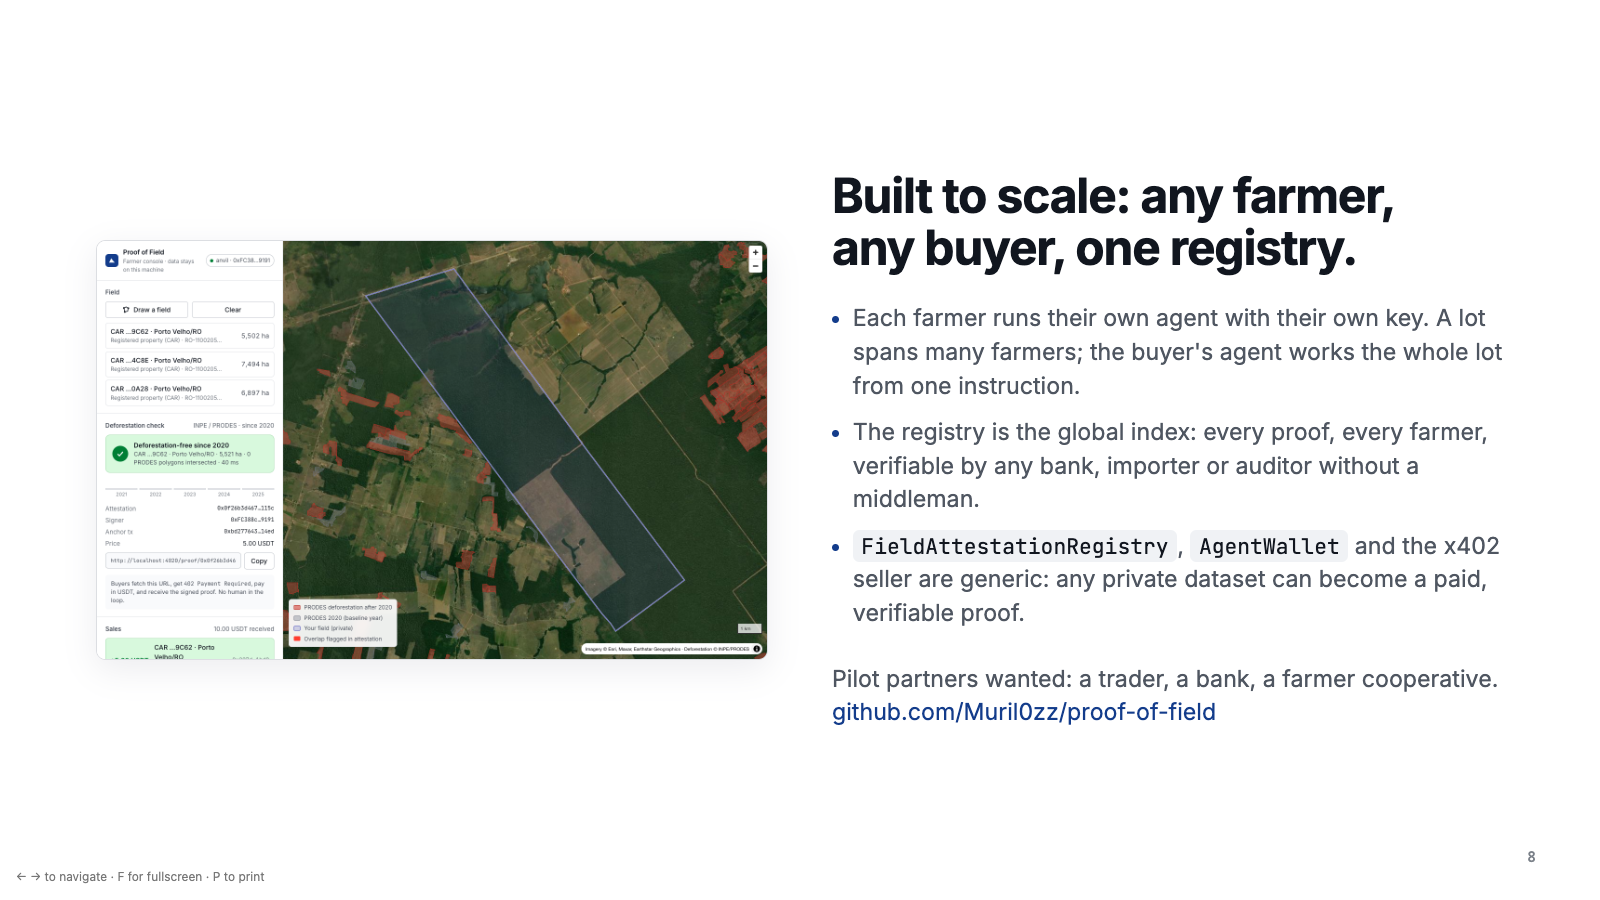
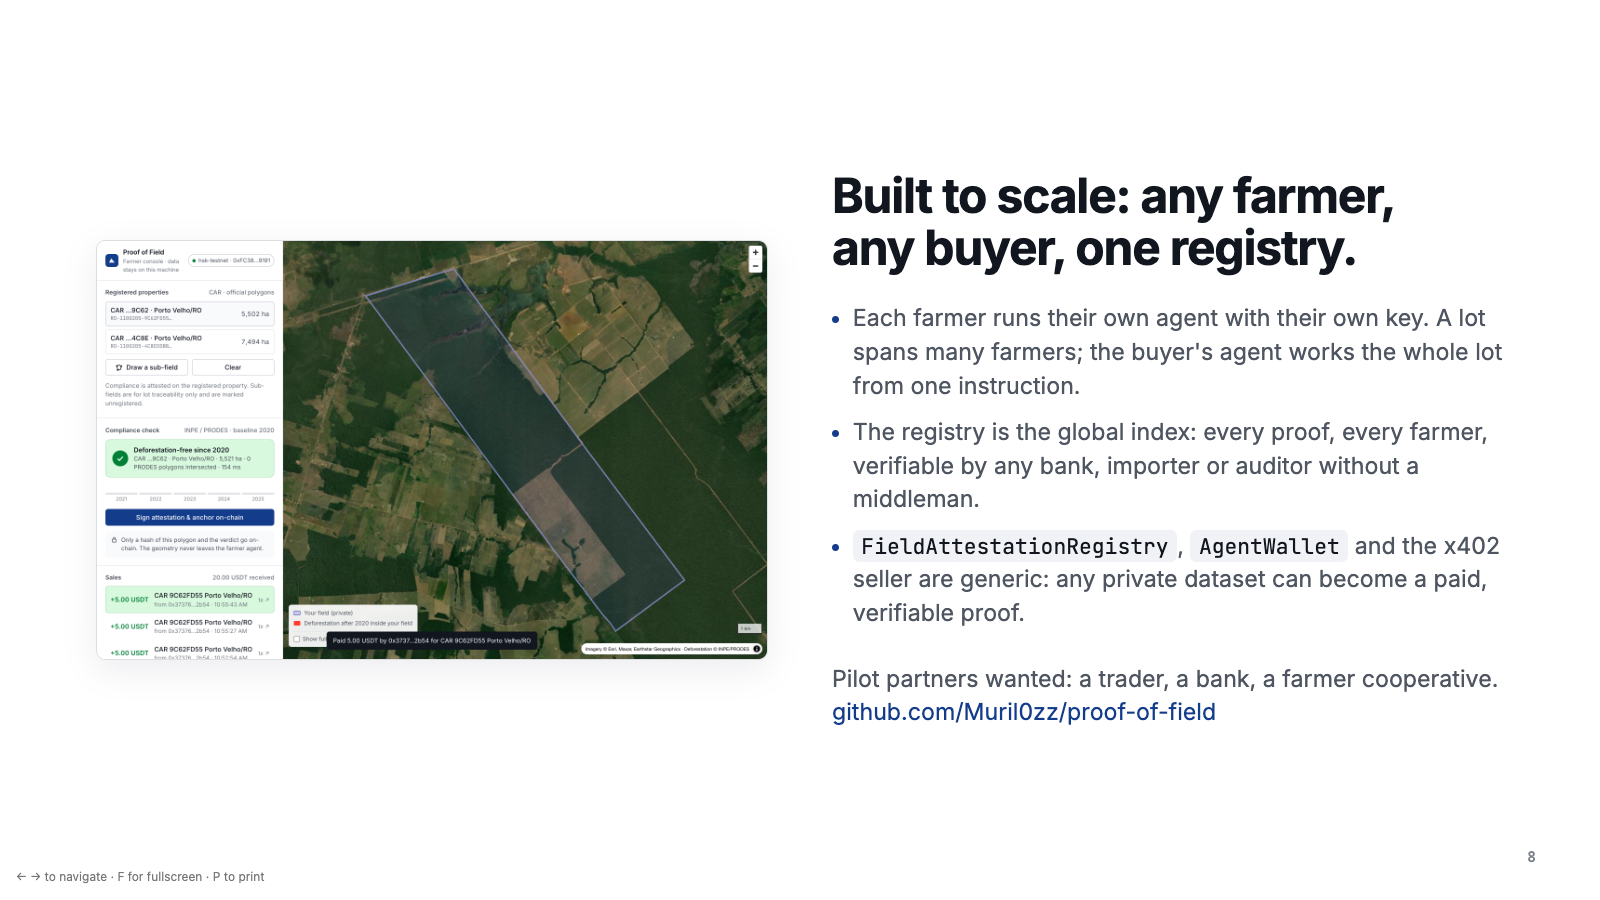
PRODES for RO, MT, GO (Amazon + Cerrado): multi-extract index, coverage by state×biome, bbox overlay, fetch script

diff --git a/packages/core/src/prodes.ts b/packages/core/src/prodes.ts
@@ -2,7 +2,45 @@ import * as turf from '@turf/turf';
 import type { Feature, FeatureCollection, Polygon, MultiPolygon } from 'geojson';
 
 export interface DeforestationHit { year: number; areaHa: number; imageDate?: string; uuid?: string }
-export interface Coverage { bbox: [number, number, number, number]; covered: boolean }
+export interface Coverage { bbox: [number, number, number, number]; covered: boolean; regions?: string[] }
+
+/** A PRODES dataset with a per-feature bbox index and the region polygons it covers. */
+export interface ProdesIndex {
+  features: Feature[];
+  bboxes: [number, number, number, number][];
+  regions: Feature[];            // polygons (e.g. state × biome) the data covers
+  regionNames: string[];
+  extent: [number, number, number, number];
+}
+export function buildProdesIndex(collections: FeatureCollection[], regions: FeatureCollection | null): ProdesIndex {
+  const features: Feature[] = []; const bboxes: [number, number, number, number][] = [];
+  for (const c of collections) for (const f of c.features) { features.push(f); bboxes.push(turf.bbox(f as any) as any); }
+  const regionFeatures = regions?.features ?? [];
+  const extent = features.length ? (turf.bbox(turf.featureCollection(features as any)) as any) : [0, 0, 0, 0];
+  return { features, bboxes, regions: regionFeatures, regionNames: regionFeatures.map((r) => { const pr = (r.properties as any) || {}; return String(pr.label ?? pr.nome ?? pr.name ?? pr.state ?? ''); }), extent };
+}
+/** Is the field inside the loaded coverage? With region polygons: fully inside their union. Without: inside the data extent. */
+export function coverageOf(field: Feature<Polygon | MultiPolygon>, idx: ProdesIndex): Coverage {
+  const bbox = turf.bbox(field as any);
+  if (idx.regions.length === 0) {
+    const e = idx.extent;
+    return { bbox: e, covered: bbox[0] >= e[0] && bbox[2] <= e[2] && bbox[1] >= e[1] && bbox[3] <= e[3] };
+  }
+  const hits: string[] = [];
+  let remaining: Feature<any> | null = field as any;
+  for (let i = 0; i < idx.regions.length && remaining; i++) {
+    const r = idx.regions[i];
+    const rb = turf.bbox(r as any);
+    if (rb[0] > bbox[2] || rb[2] < bbox[0] || rb[1] > bbox[3] || rb[3] < bbox[1]) continue;
+    let inter: Feature | null = null;
+    try { inter = turf.intersect(turf.featureCollection([remaining as any, r as any])); } catch { continue; }
+    if (!inter) continue;
+    hits.push(idx.regionNames[i]);
+    try { remaining = turf.difference(turf.featureCollection([remaining as any, r as any])) as any; } catch { remaining = null; }
+    if (remaining && turf.area(remaining) < 1) remaining = null;
+  }
+  return { bbox: idx.extent, covered: hits.length > 0 && remaining === null, regions: hits };
+}
 export interface DeforestationReport {
   coverage: Coverage;
   areaHa: number;
@@ -22,26 +60,26 @@ export interface DeforestationReport {
  */
 export function checkDeforestation(
   field: Feature<Polygon | MultiPolygon>,
-  prodes: FeatureCollection,
+  prodes: FeatureCollection | ProdesIndex,
   baselineYear = 2020,
   toleranceHa = 0,
 ): DeforestationReport {
   const t0 = Date.now();
+  const idx: ProdesIndex = 'bboxes' in prodes ? prodes : buildProdesIndex([prodes], null);
   const areaHa = turf.area(field) / 1e4;
   const bbox = turf.bbox(field);
-  // Coverage: the field must lie entirely inside the bbox of the loaded PRODES extract.
-  // Outside it, "no hits" would mean "no data", not "no deforestation" — so we refuse to conclude.
-  const dataBbox = turf.bbox(prodes as any) as [number, number, number, number];
-  const covered = bbox[0] >= dataBbox[0] && bbox[2] <= dataBbox[2] && bbox[1] >= dataBbox[1] && bbox[3] <= dataBbox[3];
+  // Coverage: outside the loaded data, "no hits" would mean "no data", not "no deforestation" — so we refuse to conclude.
+  const coverage = coverageOf(field, idx);
   const hits: DeforestationHit[] = [];
   const byYear: Record<string, number> = {};
   const inters: Feature[] = [];
   let dataYear = baselineYear;
-  for (const f of prodes.features) {
+  for (let i = 0; i < idx.features.length; i++) {
+    const f = idx.features[i];
     const year = Number((f.properties as any)?.year);
     if (year > dataYear) dataYear = year;
     if (!(year > baselineYear)) continue;
-    const fb = turf.bbox(f as any);
+    const fb = idx.bboxes[i];
     if (fb[0] > bbox[2] || fb[2] < bbox[0] || fb[1] > bbox[3] || fb[3] < bbox[1]) continue;
     let inter: Feature | null = null;
     try { inter = turf.intersect(turf.featureCollection([field as any, f as any])); } catch { continue; }
@@ -55,9 +93,9 @@ export function checkDeforestation(
   }
   const deforestedHa = hits.reduce((s, h) => s + h.areaHa, 0);
   return {
-    coverage: { bbox: dataBbox, covered },
+    coverage,
     areaHa, deforestedHa, baselineYear, dataYear, hits, byYear,
-    compliant: covered && deforestedHa <= toleranceHa,
+    compliant: coverage.covered && deforestedHa <= toleranceHa,
     intersections: turf.featureCollection(inters),
     ms: Date.now() - t0,
   };

diff --git a/apps/web/src/App.tsx b/apps/web/src/App.tsx
@@ -1,4 +1,5 @@
 import { useCallback, useEffect, useMemo, useState } from 'react';
+import * as turf from '@turf/turf';
 import { MapView } from './components/MapView';
 import { api, fmtHa, short, usdt, type AgentInfo, type Attestation, type Payment, type Report } from './lib/api';
 
@@ -9,6 +10,7 @@ export function App() {
   const [info, setInfo] = useState<AgentInfo | null>(null);
   const [offline, setOffline] = useState(false);
   const [prodes, setProdes] = useState<GeoJSON.FeatureCollection | null>(null);
+  const [coverage, setCoverage] = useState<{ regions: string[]; polygons: number } | null>(null);
   const [samples, setSamples] = useState<Sample[]>([]);
   const [list, setList] = useState<Attestation[]>([]);
   const [selected, setSelected] = useState<string | null>(null);
@@ -43,16 +45,23 @@ export function App() {
 
   useEffect(() => {
     api.info().then((i) => { setInfo(i); setOffline(false); }).catch(() => setOffline(true));
-    api.prodes().then(setProdes).catch(() => {});
+    api.coverage().then(setCoverage).catch(() => {});
     fetch('/api/samples').then((r) => r.json()).then(setSamples).catch(() => {});
     refresh();
   }, [refresh]);
 
+  const loadProdesAround = useCallback((g: GeoJSON.Geometry) => {
+    const b = turf.bbox({ type: 'Feature', properties: {}, geometry: g } as any);
+    const pad = Math.max(0.15, (b[2] - b[0]) * 1.5, (b[3] - b[1]) * 1.5);
+    api.prodes([b[0] - pad, b[1] - pad, b[2] + pad, b[3] + pad]).then(setProdes).catch(() => {});
+  }, []);
+
   const runCheck = useCallback(async (g: GeoJSON.Geometry, lbl: string) => {
     setSelected(null); setResult(null); setField(g); setLabel(lbl); setPhase('checking'); setReport(null);
+    loadProdesAround(g);
     try { const r = await api.check(g); setReport(r); setPhase('checked'); }
     catch (e: any) { say(`Check failed: ${e.message}`); setPhase('idle'); }
-  }, []);
+  }, [loadProdesAround]);
 
   const onDrawn = useCallback((g: GeoJSON.Polygon) => { setDrawing(false); runCheck(g, `Field drawn ${new Date().toLocaleTimeString()}`); }, [runCheck]);
 
@@ -70,7 +79,7 @@ export function App() {
     setSelected(a.hash); setDrawing(false);
     try {
       const d = await api.privateDetail(a.hash);
-      setField(d.geometry); setLabel(d.label || ''); setReport({ ...d.report, intersections: d.intersections, compliant: d.compliant });
+      setField(d.geometry); setLabel(d.label || ''); loadProdesAround(d.geometry); setReport({ ...d.report, intersections: d.intersections, compliant: d.compliant });
       setResult({ ...d, proofUrl: `${location.origin.replace(/:\d+$/, ':4020')}/proof/${d.hash}` } as any); setPhase('attested');
     } catch (e: any) { say(e.message); }
   };
@@ -116,7 +125,7 @@ export function App() {
           {(phase !== 'idle') && (
             <section className="section">
               <h2>Compliance check <span className="count">INPE / PRODES · baseline 2020</span></h2>
-              {phase === 'checking' && <div className="steps"><div className="step doing"><span className="ic" />Intersecting with {prodes?.features.length.toLocaleString() ?? '…'} PRODES polygons</div></div>}
+              {phase === 'checking' && <div className="steps"><div className="step doing"><span className="ic" />Intersecting with {coverage?.polygons.toLocaleString() ?? '…'} PRODES polygons</div></div>}
               {report && phase !== 'checking' && <Verdict report={report} label={label} />}
               {phase === 'checked' && report?.coverage?.covered !== false && (
                 <>
@@ -188,7 +197,8 @@ export function App() {
           <div className="legend">
             <div><i style={{ background: 'rgba(59,63,182,.2)', border: '1.5px solid #3b3fb6' }} />Your field (private)</div>
             <div><i style={{ background: '#ff3b2f' }} />Deforestation after 2020 inside your field</div>
-            <label className="toggle"><input type="checkbox" checked={showProdes} onChange={(e) => setShowProdes(e.target.checked)} /> Show full PRODES layer ({prodes?.features.length.toLocaleString() ?? '…'} polygons)</label>
+            <label className="toggle"><input type="checkbox" checked={showProdes} onChange={(e) => setShowProdes(e.target.checked)} /> Show PRODES around this field{prodes ? ` (${prodes.features.length.toLocaleString()} of ${coverage?.polygons.toLocaleString() ?? '…'})` : ''}</label>
+            {coverage && coverage.regions.length > 0 && <div className="cov">Coverage: {coverage.regions.join(' · ')}</div>}
           </div>
         </div>
       </main>

diff --git a/apps/farmer-agent/src/index.ts b/apps/farmer-agent/src/index.ts
@@ -18,7 +18,7 @@ import { privateKeyToAccount } from 'viem/accounts';
 import {
   chains, type NetworkName, type Deployment, explorerTx,
   ATTESTATION_TYPES, SCHEMA_ID, attestationHash, domain, fieldIdFromPolygon, serializeAttestation,
-  checkDeforestation, registryAbi, usdtAbi,
+  checkDeforestation, buildProdesIndex, registryAbi, usdtAbi,
   type FieldAttestation, type PaymentRequiredBody, decodePayment,
 } from '@pof/core';
 
@@ -36,8 +36,14 @@ const account = privateKeyToAccount(process.env.FARMER_PRIVATE_KEY as Hex);
 const pub = createPublicClient({ chain, transport: http(rpc) });
 const wallet = createWalletClient({ chain, transport: http(rpc), account });
 
-const prodes = JSON.parse(fs.readFileSync(path.join(ROOT, 'data', 'prodes_abuna_2020plus.json'), 'utf8'));
-console.log(`[farmer] ${account.address} on ${NETWORK} (chain ${chain.id}) · registry ${dep.registry} · PRODES ${prodes.features.length} polygons`);
+// PRODES extracts: every data/prodes/*_2021plus.json (state × biome) + region polygons for coverage; falls back to the Abunã extract.
+const PRODES_DIR = path.join(ROOT, 'data', 'prodes');
+const extractFiles = fs.existsSync(PRODES_DIR) ? fs.readdirSync(PRODES_DIR).filter((f) => /_20\d\dplus\.json$/.test(f)).map((f) => path.join(PRODES_DIR, f)) : [];
+const collections = (extractFiles.length ? extractFiles : [path.join(ROOT, 'data', 'prodes_abuna_2020plus.json')]).map((f) => JSON.parse(fs.readFileSync(f, 'utf8')));
+const regionFiles = fs.existsSync(PRODES_DIR) ? fs.readdirSync(PRODES_DIR).filter((f) => /^regions_.*\.json$/.test(f)).map((f) => path.join(PRODES_DIR, f)) : [];
+const regions = regionFiles.length ? { type: 'FeatureCollection', features: regionFiles.flatMap((f) => JSON.parse(fs.readFileSync(f, 'utf8')).features) } as any : null;
+const prodes = buildProdesIndex(collections, regions);
+console.log(`[farmer] ${account.address} on ${NETWORK} (chain ${chain.id}) · registry ${dep.registry} · PRODES ${prodes.features.length.toLocaleString()} polygons from ${collections.length} extract(s)${regions ? ` · coverage: ${prodes.regionNames.join(', ')}` : ''}`);
 
 // --- private store (stays on the farmer's machine) ---
 interface Stored {
@@ -67,7 +73,16 @@ app.use('*', cors());
 
 app.get('/', (c) => c.json({ agent: 'proof-of-field/farmer', name: process.env.FARMER_NAME || 'Farmer agent', farmer: account.address, network: NETWORK, chainId: chain.id, registry: dep.registry, usdt: dep.usdt, priceUnits: PRICE.toString(), attestations: Object.keys(store).length }));
 
-app.get('/prodes', (c) => c.json(prodes));
+/** PRODES overlay for the map. Pass ?bbox=minx,miny,maxx,maxy to get only what's in view (the full set can be tens of MB). */
+app.get('/prodes', (c) => {
+  const q = c.req.query('bbox');
+  if (!q) return c.json({ type: 'FeatureCollection', features: prodes.features.length > 8000 ? [] : prodes.features, total: prodes.features.length });
+  const [x0, y0, x1, y1] = q.split(',').map(Number);
+  const out: any[] = [];
+  for (let i = 0; i < prodes.features.length; i++) { const b = prodes.bboxes[i]; if (b[0] <= x1 && b[2] >= x0 && b[1] <= y1 && b[3] >= y0) out.push(prodes.features[i]); }
+  return c.json({ type: 'FeatureCollection', features: out, total: prodes.features.length });
+});
+app.get('/coverage', (c) => c.json({ regions: prodes.regionNames, extent: prodes.extent, polygons: prodes.features.length }));
 
 /** Farmer's own registered properties (CAR polygons). PRIVATE — local UI only. */
 const SAMPLE_IDS = (process.env.FARMER_SAMPLES || '').split(',').map((x) => x.trim()).filter(Boolean);
@@ -103,7 +118,7 @@ app.post('/attest', async (c) => {
   const r = checkDeforestation(feature, prodes, BASELINE_YEAR);
   if (!r.coverage.covered) {
     console.log(`[farmer] refused to attest ${label || ''}: field outside PRODES coverage bbox ${r.coverage.bbox.map((n) => n.toFixed(2)).join(',')}`);
-    return c.json({ error: 'no_coverage', message: `This field lies outside the loaded PRODES extract (bbox ${r.coverage.bbox.map((n) => n.toFixed(2)).join(', ')}). No attestation issued: absence of data is not absence of deforestation.`, coverage: r.coverage }, 422);
+    return c.json({ error: 'no_coverage', message: `This field is not fully inside the loaded PRODES coverage (${prodes.regionNames.length ? prodes.regionNames.join(', ') : 'bbox ' + r.coverage.bbox.map((n) => n.toFixed(2)).join(', ')}). No attestation issued: absence of data is not absence of deforestation.`, coverage: r.coverage }, 422);
   }
 
   const att: FieldAttestation = {

diff --git a/docs/slides/index.html b/docs/slides/index.html
@@ -184,9 +184,9 @@
 <section class="slide">
   <h2>Under the hood</h2>
   <div class="flow">
-    <div class="step priv"><i>farmer · private</i><b>Field ∩ PRODES</b><p>Pure geometry against INPE's public polygons. No ML, no cloud, runs on a laptop.</p></div>
+    <div class="step priv"><i>farmer · private</i><b>Field ∩ PRODES</b><p>Pure geometry against INPE's PRODES for Rondônia, Mato Grosso and Goiás (Amazon + Cerrado, ~100k polygons). Runs on a laptop.</p></div>
     <div class="step priv"><i>farmer · private</i><b>EIP-712 attestation</b><p>Area, ha deforested after 2020, verdict, source, timestamp. Signed by the farmer.</p></div>
-    <div class="step"><i>HSK Chain</i><b>Anchor</b><p><code>attest(hash, fieldId)</code>. Only commitments on-chain. Revocable by the farmer.</p></div>
+    <div class="step"><i>HSK Chain · RPC by Chainstack</i><b>Anchor</b><p><code>attest(hash, fieldId)</code>. Only commitments on-chain. Revocable by the farmer.</p></div>
     <div class="step pay"><i>buyer · LLM</i><b>402 → AgentWallet.pay</b><p>x402 v1 shape. On-chain USDT transfer, replay-protected, policy-enforced.</p></div>
     <div class="step pay"><i>buyer · LLM</i><b>Verify &amp; report</b><p>Signature → same farmer anchored it → not revoked. Markdown dossier with every tx.</p></div>
   </div>

diff --git a/apps/web/src/lib/api.ts b/apps/web/src/lib/api.ts
@@ -9,7 +9,8 @@ export interface AgentInfo { agent: string; farmer: string; network: string; cha
 const j = async <T,>(r: Response): Promise<T> => { if (!r.ok) throw new Error(`${r.status} ${await r.text()}`); return r.json(); };
 export const api = {
   info: () => fetch('/api/').then(j<AgentInfo>),
-  prodes: () => fetch('/api/prodes').then(j<GeoJSON.FeatureCollection>),
+  prodes: (bbox?: number[]) => fetch(bbox ? `/api/prodes?bbox=${bbox.join(',')}` : '/api/prodes').then(j<GeoJSON.FeatureCollection & { total?: number }>),
+  coverage: () => fetch('/api/coverage').then(j<{ regions: string[]; extent: number[]; polygons: number }>),
   list: () => fetch('/api/attestations').then(j<Attestation[]>),
   payments: () => fetch('/api/payments').then(j<{ payments: Payment[]; totalUnits: string }>),
   privateDetail: (hash: string) => fetch(`/api/attestations/${hash}/private`).then(j<Attestation & { geometry: GeoJSON.Geometry; intersections: GeoJSON.FeatureCollection }>),

diff --git a/apps/web/src/styles.css b/apps/web/src/styles.css
@@ -145,3 +145,5 @@ code, .mono { font-family: var(--mono); font-size: 12px; }
 
 .legend .toggle { display: flex; align-items: center; gap: 6px; margin-top: 4px; padding-top: 6px; border-top: 1px solid var(--line); cursor: pointer; color: var(--ink-2); }
 .legend .toggle input { margin: 0; accent-color: var(--primary); }
+
+.legend .cov { color: var(--ink-3); font-size: 11px; max-width: 320px; }

diff --git a/README.md b/README.md
@@ -52,6 +52,7 @@ Prereqs: Node 20+, pnpm, Foundry (`curl -L https://foundry.paradigm.xyz | bash &
 
 ```bash
 pnpm install
+./scripts/fetch-prodes.sh          # PRODES for RO, MT, GO (~150 MB); optional, falls back to a small RO extract
 cp .env.example .env            # fill FARMER_PRIVATE_KEY / BUYER_PRIVATE_KEY (dev keys only)
 
 # 1. local chain
@@ -82,7 +83,7 @@ NETWORK=hsk-testnet pnpm farmer
 NETWORK=hsk-testnet pnpm buyer -- <proofUrl>
 ```
 
-Explorer: https://testnet-explorer.hsk.xyz
+Explorer: https://testnet-explorer.hsk.xyz · Set `HSK_TESTNET_RPC` to a dedicated node (e.g. Chainstack) for the demo; the public RPC is load-balanced and can lag on fresh receipts (handled with retries).
 
 Live deployment (chainId 133):
 
@@ -99,7 +100,7 @@ Example: [attestation anchored](https://testnet-explorer.hsk.xyz/tx/0xd1a37a26ce
 - **x402**: the farmer agent answers `402` with a v1-shaped `accepts[]` (scheme `exact`, network, `payTo`, `asset`, `maxAmountRequired`). Settlement here is an on-chain ERC-20 transfer referenced by tx hash in `X-PAYMENT`; the server verifies the `Transfer` log to its own address and rejects replays. Roadmap: EIP-3009 `transferWithAuthorization` so the buyer never needs gas.
 - **AgentWallet** is the piece that makes autonomous buying safe: a company funds it once, sets a policy, and gives an agent a key that can *only* pay allow-listed sellers within limits.
 - **Privacy**: the attestation commits to the polygon (`fieldId = keccak(canonical GeoJSON)`) but reveals only aggregates. A buyer can verify the farmer's claim without ever learning where the field is. Selective disclosure of the geometry (to an auditor, under a separate paid resource) is a natural extension.
-- **Data**: PRODES is INPE's official yearly deforestation mapping of the Legal Amazon (Landsat/Sentinel, published as polygons; minimum mapping unit 6.25 ha, annual). We fetch it via the TerraBrasilis WFS and intersect client-side with turf. Same first-pass method commercial due-diligence providers use. The bundled extract covers a bbox around Abunã/RO (3,445 polygons, 2020–2025); **fields outside the extract are refused** (`422 no_coverage`) rather than reported as clean.
+- **Data**: PRODES is INPE's official yearly deforestation mapping (Landsat/Sentinel, published as polygons; minimum mapping unit 6.25 ha, annual). `./scripts/fetch-prodes.sh` downloads 2021+ polygons for **Rondônia, Mato Grosso and Goiás across the Amazon and Cerrado biomes** (~103k polygons, ~150 MB, not in git) plus the state×biome polygons used for coverage. The farmer agent indexes them in memory (3 s startup, ~540 MB) and intersects with turf in 0.4–1.8 s. **Fields not fully inside a covered state×biome are refused** (`422 no_coverage`) rather than reported as clean. Without the download it falls back to the bundled Abunã/RO extract.
 
 ## Roadmap
 

diff --git a/docs/PITCH.md b/docs/PITCH.md
@@ -66,7 +66,7 @@ Fallback if HSK is down: run everything with `NETWORK=anvil` (identical, no expl
 - **"Is 5 USDT a real price?"** Illustrative. The mechanism is what we are showing. Today the trader pays, because the legal obligation is on the importer, per query. It could be the bank, or a subscription.
 - **"Why HSK Chain?"** EVM, cheap, a sponsor, and the target buyer side is in Asia. The contracts are chain-agnostic.
 - **"Is this real x402?"** The 402 body and `accepts[]` follow x402 v1. Settlement today is an on-chain transfer referenced by tx hash. EIP-3009 gasless settlement is the next step.
-- **"Is PRODES enough? What about a farm outside your data?"** PRODES is INPE's official annual mapping, the same first-pass source commercial due-diligence providers use. Limits: minimum mapping unit 6.25 ha, annual cadence, Amazon biome only. For the demo we loaded the Abunã region (3,445 polygons, 2020–2025, Rondônia plus the Amazonas border). If a field falls outside the loaded extent the agent refuses to attest: absence of data is not absence of deforestation. Production loads the full biome and adds DETER alerts and IBAMA embargoes.
+- **"Is PRODES enough? What about a farm outside your data?"** PRODES is INPE's official annual mapping, the same first-pass source commercial due-diligence providers use. Limits: minimum mapping unit 6.25 ha, annual cadence, Amazon biome only. We load Rondônia, Mato Grosso and Goiás across the Amazon and Cerrado biomes, about 103,000 polygons since 2021, indexed in memory on the farmer's machine. If a field is not fully inside a covered state and biome the agent refuses to attest: absence of data is not absence of deforestation. Adding a state is one download. Next: DETER alerts and IBAMA embargoes.
 - **"Real privacy would be ZK."** Agreed. Today: commitment plus aggregates. A ZK proof of "empty intersection" is on the roadmap, and it is feasible because the geometry is simple.
 
 ## Timing warning

diff --git a/STATUS.md b/STATUS.md
@@ -34,6 +34,8 @@ Precisa de `~/.foundry/bin` no PATH (o script já adiciona).
 - Deck depersonalizado: sem Nixar/Abunã/nome; slide 2 com as grandes tradings; slide 8 "built to scale".
 - Comando da demo: `NETWORK=hsk-testnet pnpm buyer:ai "Buy the proofs for every farm in this lot. Budget 30 USDT. Reject any farm with deforestation after 2020." http://localhost:4020 http://localhost:4021`
 
+- **PRODES ampliado**: RO, MT, GO (Amazônia + Cerrado), 103k polígonos, `./scripts/fetch-prodes.sh` (150 MB, fora do git). Cobertura por estado×bioma; fora → recusa.
+
 ## VOCÊ precisa fazer (eu não consigo)
 1. **Devfolio**: criar conta e aplicar em https://eag-global-buildathon.devfolio.co (5 min). Na submissão marcar **Brazil Hackathon** + trilha EAG + **HSK Chain**.
 2. **Telegram** do evento (link no Notion).
